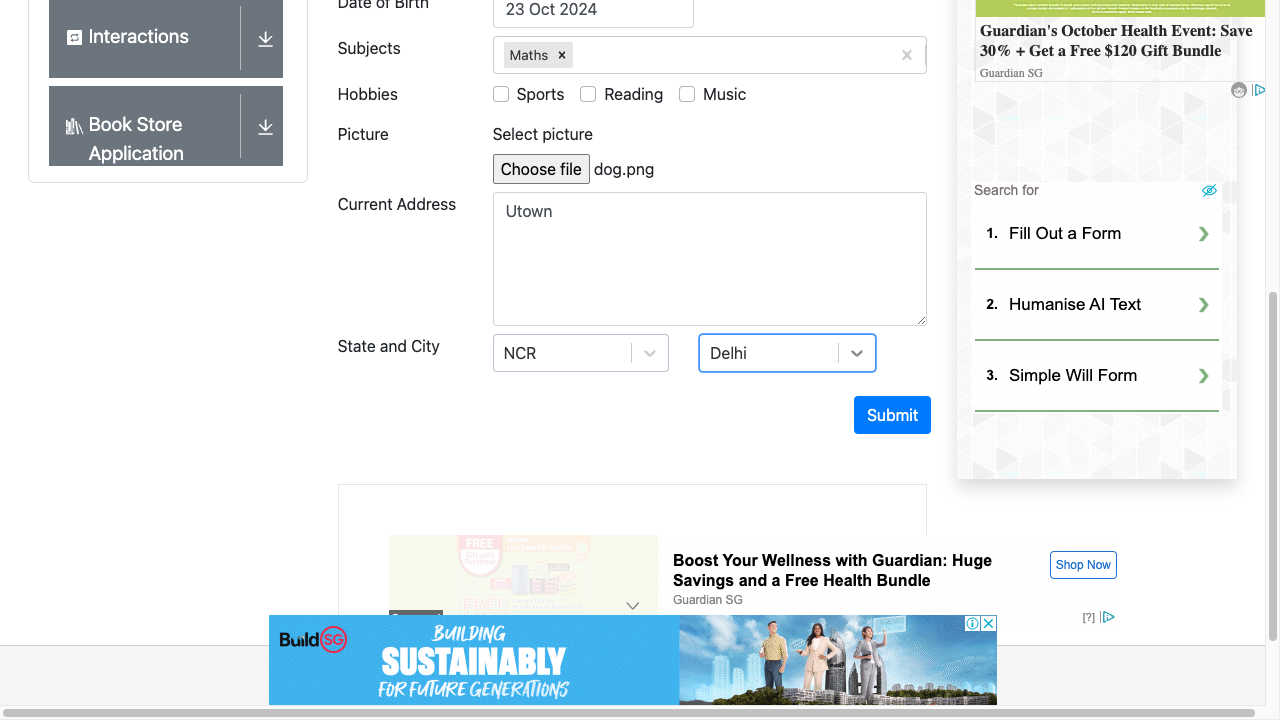
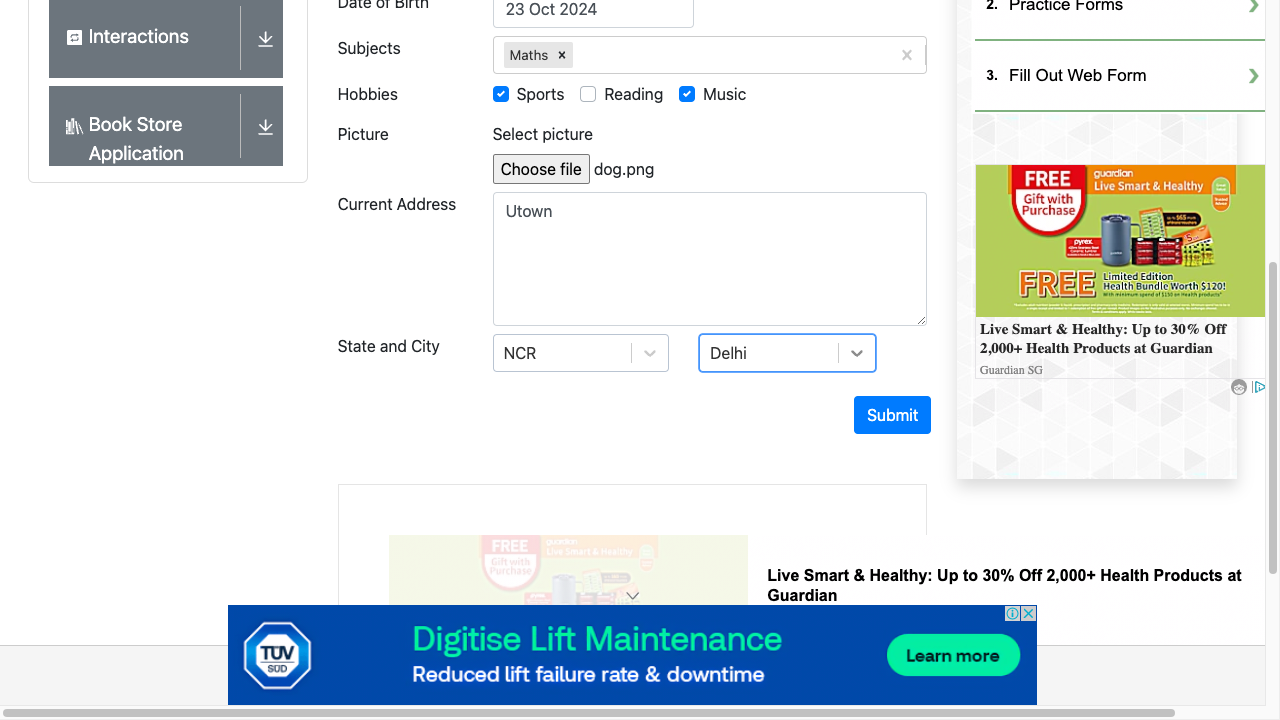
Add click for Sports and Music under hobbies

diff --git a/example.js b/example.js
@@ -20,10 +20,12 @@ const path = require('path');
   await page.click('label[for="gender-radio-1"]');
 
 
-
-
   await page.fill('.subjects-auto-complete__input input', 'Maths');
   await page.locator('.subjects-auto-complete__option >> text=Maths').click();
+
+  await page.getByText('Sports').click();
+  await page.getByText('Music').click();
+  
 
 
   await page.setInputFiles('#uploadPicture', path.join(__dirname, 'dog.png'));
